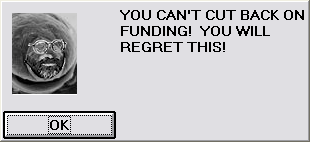
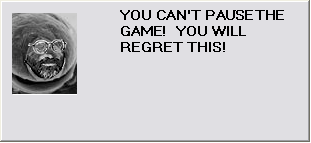
You cannot pause the game! You will regret this!

Changed region(s): [[0.0, 0.7552, 0.3762, 0.979], [0.3762, 0.1678, 0.8682, 0.2517], [0.6656, 0.0559, 0.9839, 0.1399]]

diff --git a/popover.ts b/popover.ts
@@ -37,6 +37,7 @@ export class PopoverButton {
 
 const defaultButton = loadImage('assets/pictures/button.png');
 const sorryButton = loadImage('assets/pictures/sorrybutton.png');
+const regretButton = loadImage('assets/pictures/regretButton.png');
 
 type PopoverType = 'REGRET'|'EMPTY'|'PAUSE';
 
@@ -84,7 +85,7 @@ export class Popover {
 const images: {[key in PopoverType]: HTMLImageElement} = {
   'REGRET': loadImage('assets/pictures/popovers/regret.png'),
   'EMPTY': loadImage('assets/pictures/empty1.png'),
-  'PAUSE' : loadImage('assets/pictures/popovers/pause.png'),
+  'PAUSE' : loadImage('assets/pictures/regret.png'),
 }
 
 export const RegretPopover = (ctx : CanvasRenderingContext2D) => {
@@ -105,7 +106,7 @@ export const EmptyPopover = (ctx : CanvasRenderingContext2D) => {
 export const PausePopover = (ctx : CanvasRenderingContext2D) => {
   const p = new Popover('PAUSE', ctx);
   p.buttons.push(new PopoverButton(
-    p, 221, 155, 159, 35, sorryButton, ctx, () => {}
+    p, 3, 111, 113, 28, regretButton, ctx, () => {}
   ));
   return p;
 }
